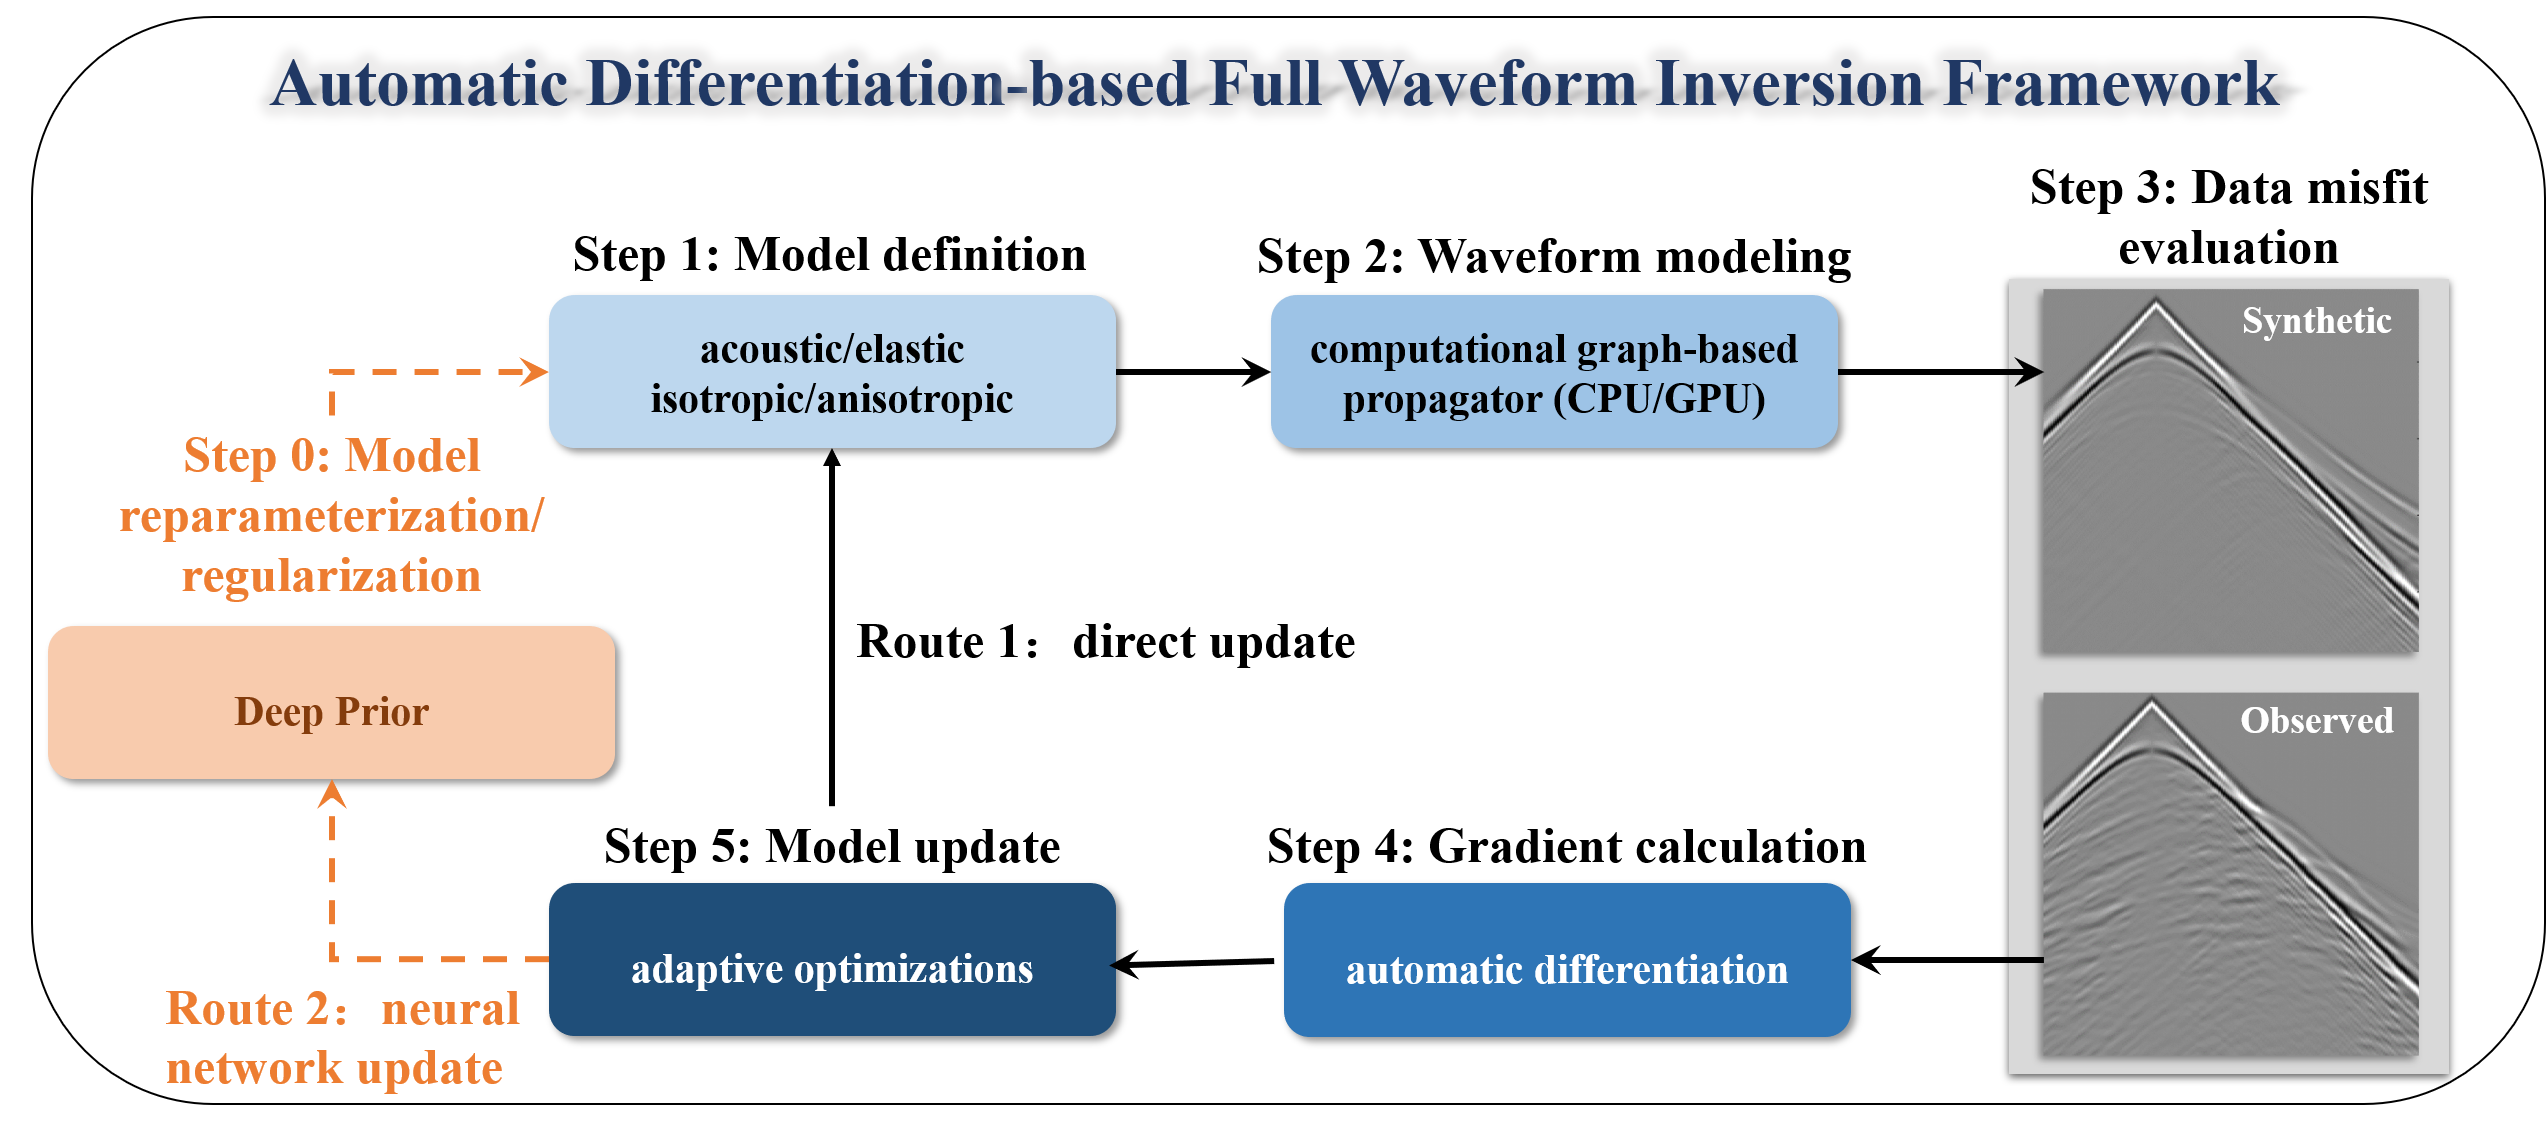
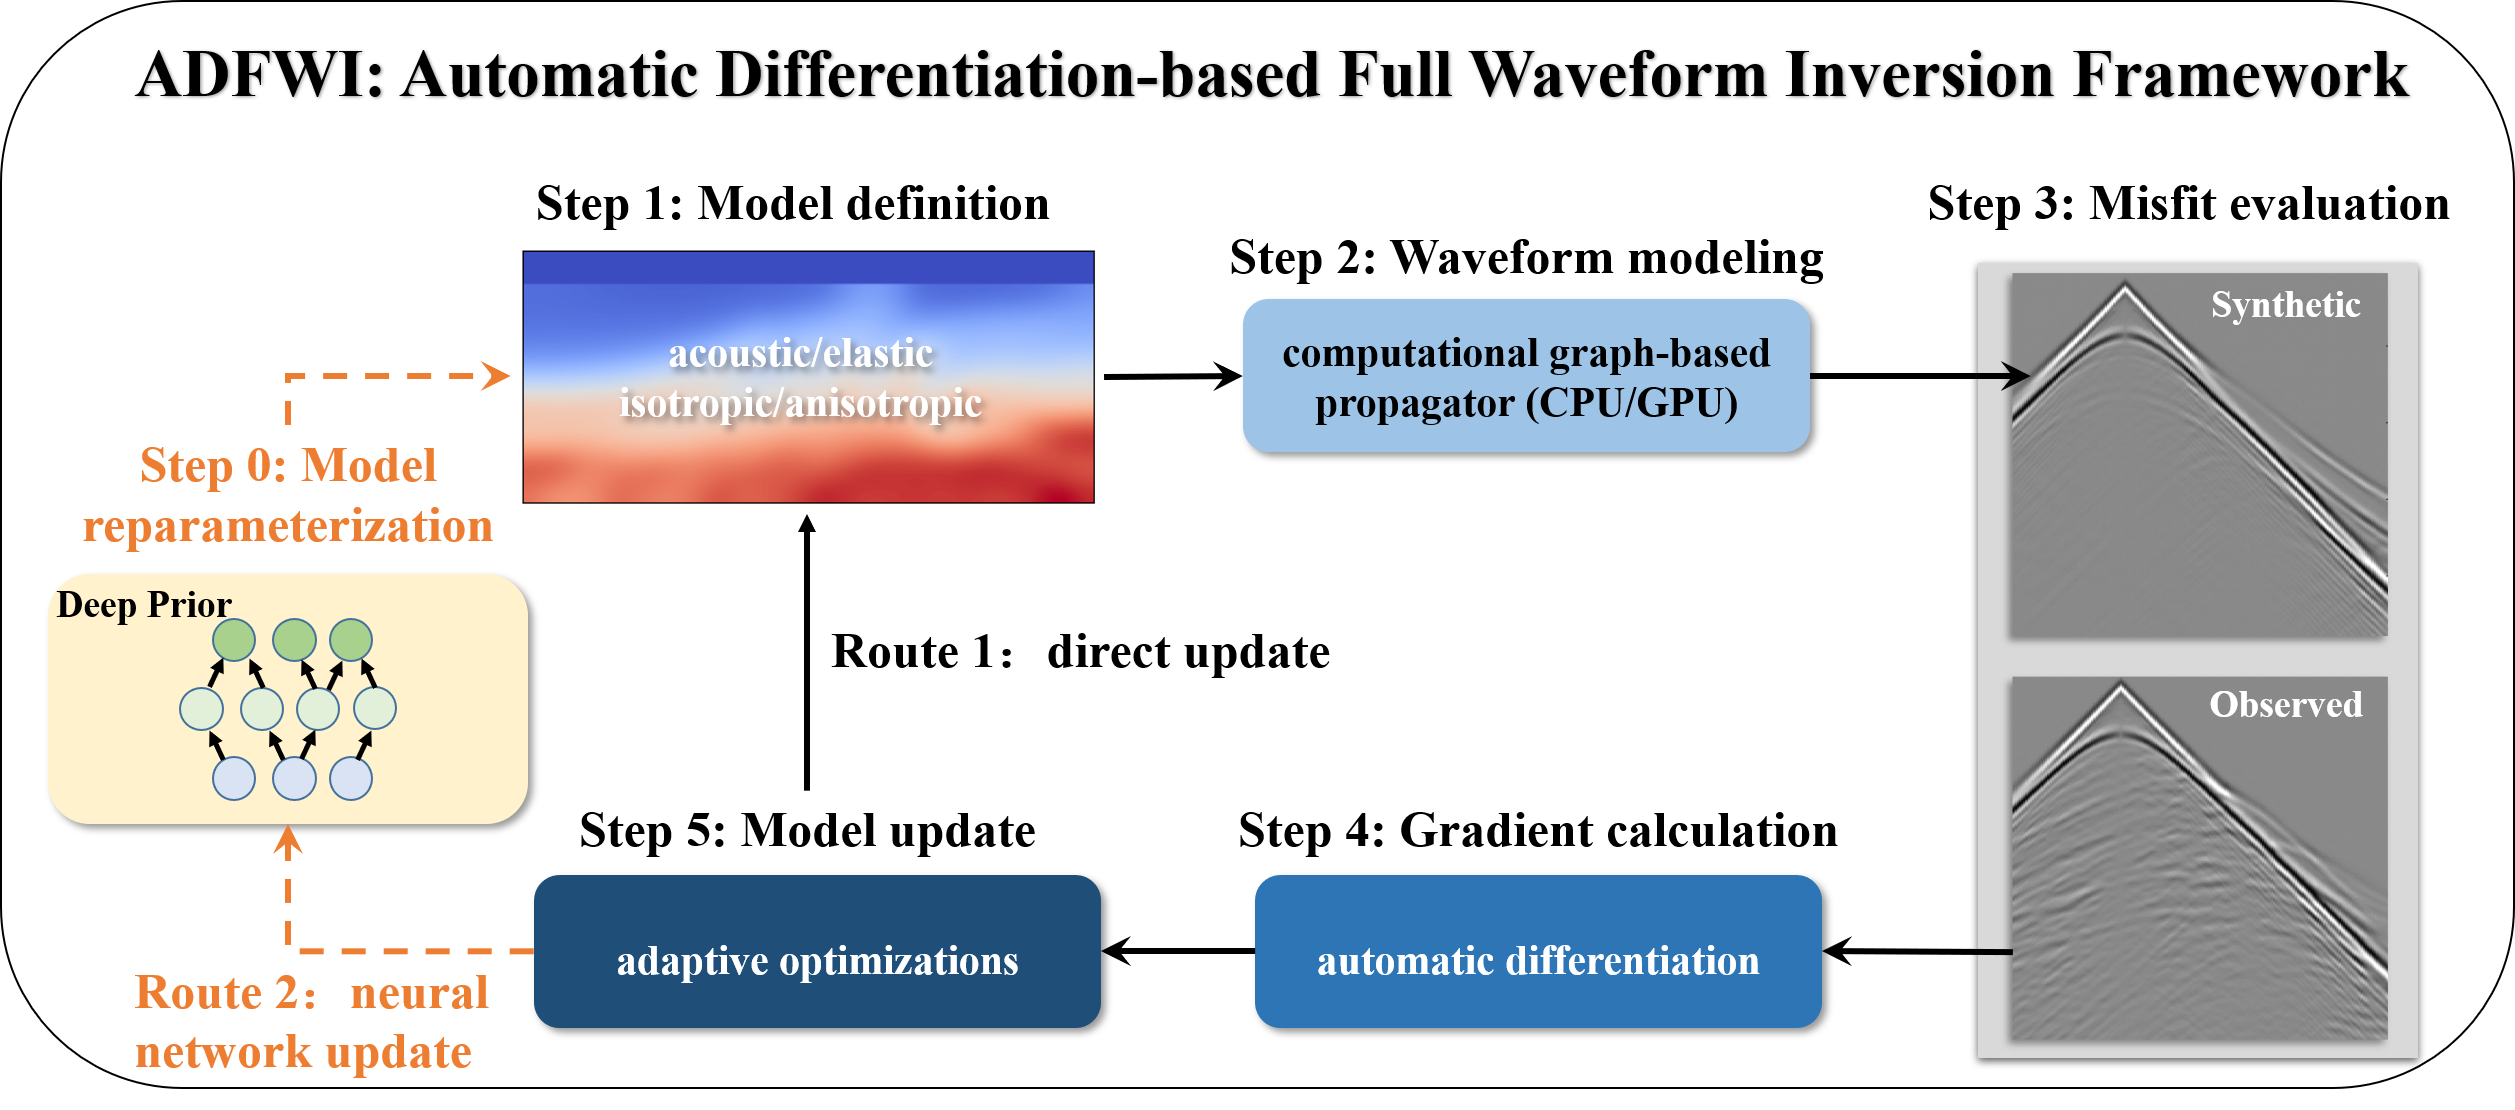
update readme info

diff --git a/README.md b/README.md
@@ -41,7 +41,7 @@
   - [7. Multi-Scale Strategy in FWI](#7-multi-scale-strategy-in-fwi)
   - [8. Deep Image Prior (Earth Model Reparameterization)](#8-deep-image-prior-earth-model-reparameterization)
   - [9. Uncertainty Estimation Using Deep Neural Networks (DNNs)](#9-uncertainty-estimation-using-deep-neural-networks-dnns)
-- [📝 Features](#-features)
+- [📝 Special Features](#-special-features)
 - [⚖ LICENSE](#-license)
 - [🗓 To-Do List](#-to-do-list)
 - [🔰 Contact](#-contact)
@@ -49,11 +49,12 @@
 ---
 
 ## 👩💻 Introduction
-&emsp;&emsp;**ADFWI** is an open-source framework for high-resolution subsurface parameter estimation by minimizing discrepancies between observed and simulated waveform. Utilizing automatic differentiation (AD), ADFWI **simplifies the derivation and implementation of Full Waveform Inversion (FWI)**, enhancing the design and evaluation of methodologies. It supports wave propagation in various media, including isotropic acoustic, isotropic elastic, and both vertical transverse isotropy (VTI) and tilted transverse isotropy (TTI) models.
+&emsp;&emsp;**ADFWI** is an open-source framework for high-resolution subsurface parameter estimation by minimizing discrepancies between observed and simulated waveform. Utilizing automatic differentiation (AD), ADFWI **simplifies the derivation and implementation of full waveform inversion (FWI)**, enhancing the design and evaluation of methodologies. It supports wave propagation in various media, including isotropic acoustic, isotropic elastic, and both vertical transverse isotropy (VTI) and horizontal transverse isotropy (HTI) medias.
 
 &emsp;&emsp;In addition, **ADFWI** provides a comprehensive collection of **Objective functions**, **regularization techniques**, **optimization algorithms**, and **deep neural networks**. This rich set of tools facilitates researchers in conducting experiments and comparisons, enabling them to explore innovative approaches and refine their methodologies effectively.
 
 ![ADFWI](./docs/Md_img/Figure1-AISWIT-Workflow.png)
+![NNFWI](./docs/Md_img/Figure2_DIP_process.png)
 
 ---
 
@@ -62,13 +63,10 @@
 To install ADFWI, please follow these steps:
 
 1. **Ensure Prerequisites**  
-   make sure you have the following software installed on your system:  
-   - **Python 3.8+**: Download Python from the official website: [Python Downloads](https://www.python.org/downloads/).
-   - **pip** (Python package installer).
+   - **Python 3.8+**: [Python Downloads](https://www.python.org/downloads/).
 
-2. **Create a Virtual Environment (Optional but Recommended)**
-   It is recommended to create a virtual environment to manage your project dependencies. You can use either `venv` or `conda`. 
-   For example, using `conda`:
+2. **Create a Virtual Environment (Optional)**
+   It is recommended to create a virtual environment using `conda`:
    ```bash
    conda create --name adfwi-env python=3.8
    conda activate adfwi-env
@@ -90,13 +88,6 @@ To install ADFWI, please follow these steps:
   ```bash
     pip install ADFWI-Torch
   ```
-
-4. **Verify the Installation**
-  To ensure that ADFWI is installed correctly, run any examples located in the examples folder.
-
-5. **Troubleshooting**
-   If you encounter any issues during installation, please check the Issues section of the GitHub repository for potential solutions or to report a new issue.
-
 ---
 
 ## 👾 Examples
@@ -956,18 +947,7 @@ We employ DNNs derived from the Deep Image Prior (DIP) test described earlier, t
 
 ---
 
-## 📝 Features
-- **Multi-Wave Equation**:
-  - Iso-Acoustic
-  - Iso-Elastic
-  - VTI-Elastic
-  - TTI-Elastic
-- **Various Objective Functions**
-
-- **Various Optimization Methods**
-
-- **Multiscale FWI inversion**
-    - multi-frequency
+## 📝 Special Features
 
 - **Deep Neural Network Integration**
   - **DNNs Reparameterization**: DNNs reparameterize the Earth model, introducing learnable regularization to improve the inversion process.
@@ -1074,7 +1054,7 @@ The **Automatic Differentiation-Based Full Waveform Inversion (ADFWI)** framewor
 
 Developed by **Feng Liu** at the University of Science and Technology of China (USTC) and Shanghai Jiao Tong University (SJTU).
 
-The related paper ***Full Waveform Inversion of (An)Isotropic Wave Physics in a Versatile Deep Learning Framework*** is currently in preparation.
+The related paper ***Automatic Differentiation-based Full Waveform Inversion with Flexible Workflows*** is currently in preparation.
 
 For any inquiries, please contact Liu Feng via email at: [liufeng2317@sjtu.edu.cn](mailto:liufeng2317@sjtu.edu.cn) or [liufeng2317@mail.ustc.edu.cn](mailto:liufeng2317@mail.ustc.edu.cn).
 
